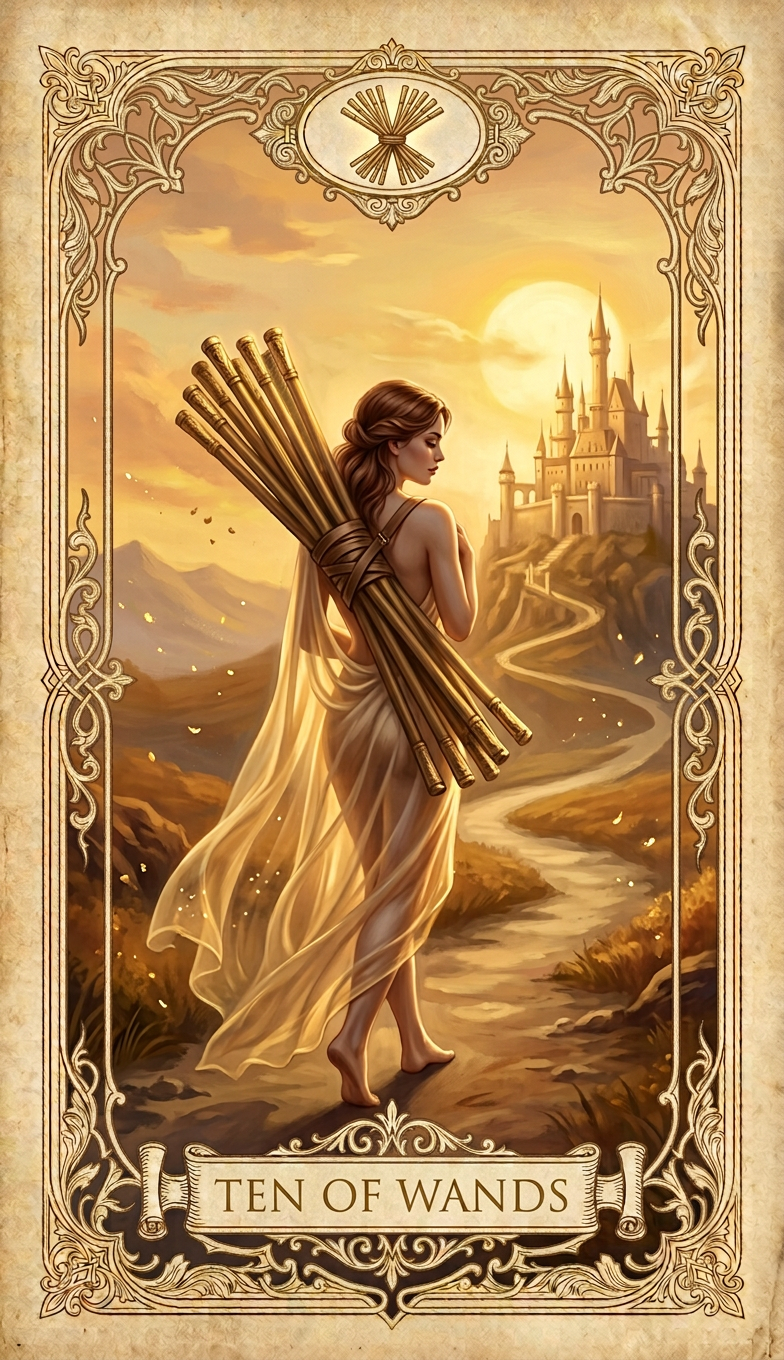
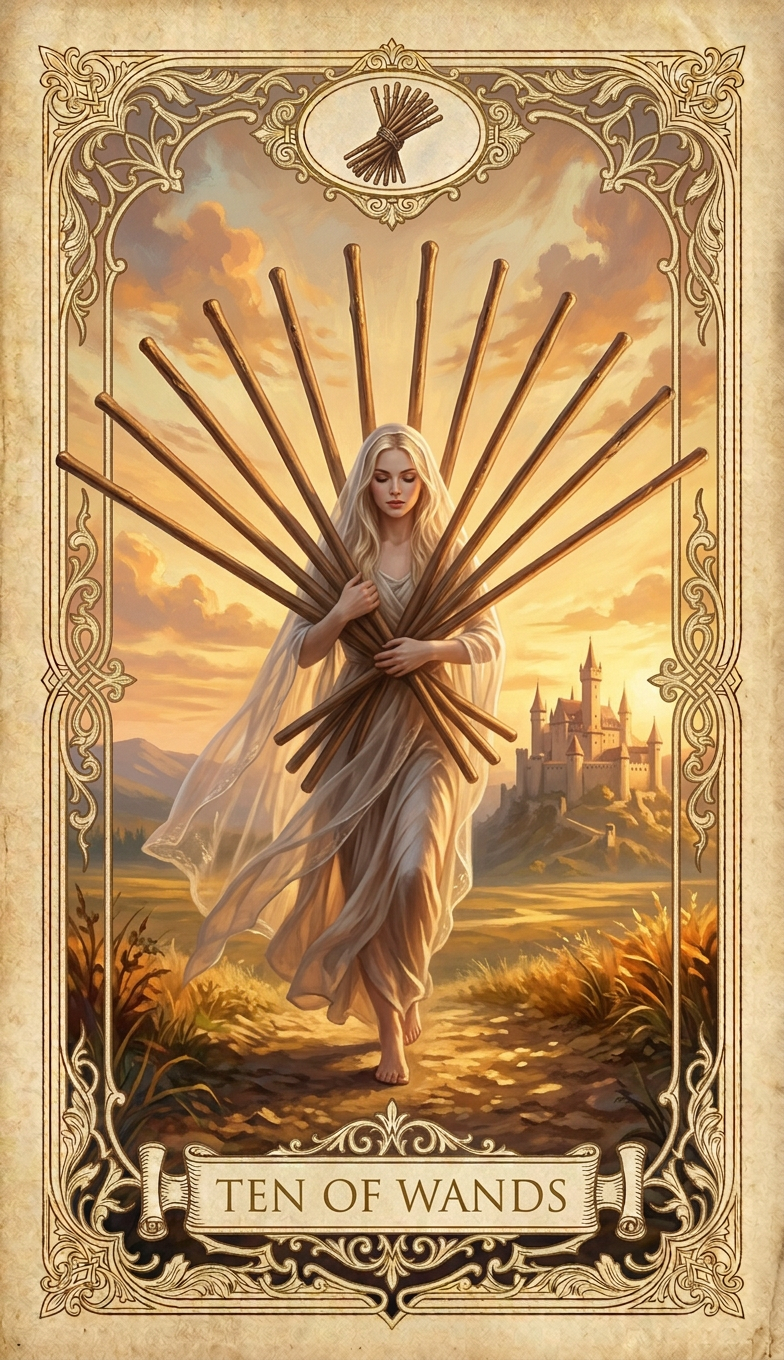
Redo Ten of Wands with exactly 10 wands (fan layout)
Kept the current style (serene woman in transparent silk toward the
castle) but changed the load to a wide fan of exactly ten wands, each
shaft separated by a clear gap of sky so all ten can be counted. Frame-
verified vs The Star (RMSE 0.023).

diff --git a/cards/index.html b/cards/index.html
@@ -654,7 +654,7 @@
             <div class="card-details">
                 <div class="card-title">TEN OF WANDS</div>
                 <div class="card-meta"><strong>Độ tuổi:</strong> 23 years old &bull; <strong>Huy hiệu:</strong> ten wands in a bundle</div>
-                <div class="card-scene">a serene young woman draped in a diaphanous transparent silk veil, carrying a bundle of ten wands gracefully toward a distant sunlit castle</div>
+                <div class="card-scene">a serene young woman draped in a diaphanous transparent silk veil, carrying in both arms a wide fan of exactly ten long wooden wands toward a distant sunlit castle, the ten wands spread in a neat even fan with a clear gap of sky between every wand, each shaft the same length and fully visible from base to tip, none crossing and none hidden</div>
             </div>
         </div>
         <div class="card-item">
